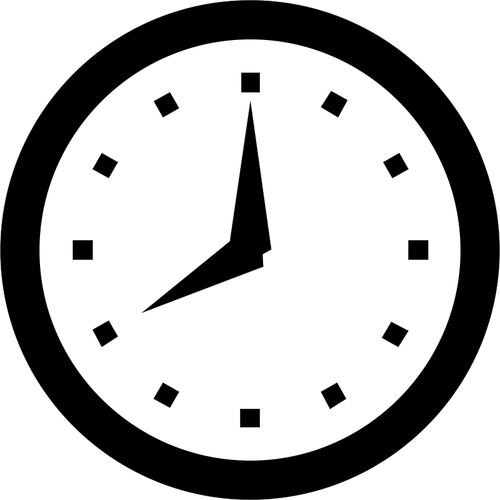
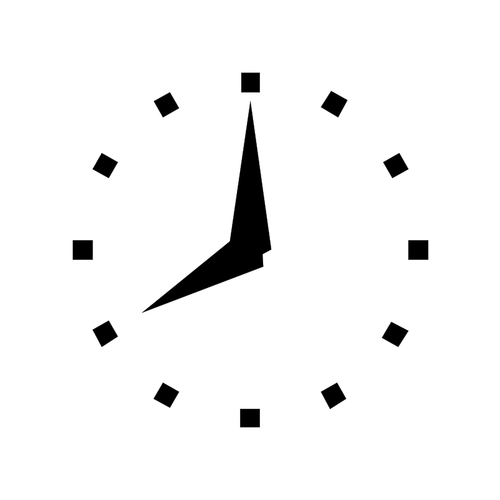
Added QR code scanning or native browser for authenticating tokens

Changed region(s): [[0.0, 0.0, 1.0, 1.0]]

diff --git a/Smart Display.py b/Smart Display.py
@@ -4,7 +4,9 @@ import requests
 import dotenv
 import datetime
 import tkinter as tk
-from auth_server import run_server_with_token_acquisition
+import qrcode
+import threading
+from auth_server import wait_for_token, get_auth_url, native_capture
 from PIL import Image, ImageTk
 
 os.chdir(os.path.dirname(os.path.abspath(__file__)))
@@ -131,7 +133,7 @@ def fit_image_to_widget(image_path, widget_width, widget_height):
         scale_factor = min(width_scale, height_scale)
         
         # Resize the image using the calculated scale factor
-        resized_image = image.resize((int(image_width * scale_factor), int(image_height * scale_factor)), Image.BILINEAR)
+        resized_image = image.resize((int(image_width * scale_factor), int(image_height * scale_factor)), Image.BICUBIC)
         
         # Convert the resized image to a Tkinter PhotoImage
         photo_image = ImageTk.PhotoImage(resized_image)
@@ -242,6 +244,27 @@ def refresh_weather():
         print("An error occured with update weather page: ", e)
     screen_refresh_process = root.after(1000*1, refresh_weather)
 
+def switch_to_settings():
+    global screen_refresh_process, current_screen, carousel_update_process
+    current_screen = "Settings"
+    root.after_cancel(carousel_update_process) if carousel_update_process else None
+    root.after_cancel(screen_refresh_process) if screen_refresh_process else None
+    clear_page_transition()
+    root.configure(bg="#505050")
+    settings_button.configure(bg="#505050")
+    clock_button.configure(bg="#505050")
+    instagram_button.configure(bg="#505050")
+    weather_button.configure(bg="#505050")
+    settings_logo.place(x=10, y=(display_height-250)/2, width=250, height=250)
+    settings_label.place(x=260, y=10, width=1000, height=100)
+    token_days_remaining = (datetime.datetime.strptime(os.getenv('LONG_ACCESS_TOKEN_EXPIRY'), '%Y-%m-%d %H:%M:%S.%f') - datetime.datetime.now()).days
+    if token_days_remaining >= 0:
+        token_label.configure(text="Token Has\n"+str(token_days_remaining)+" Days Remaining")
+    else:
+        token_label.configure(text="Token Has\n Expired", bg="black")
+    token_label.place(x=300, y=110, width=300, height=100)
+    refresh_token_button.place(x=350, y=210, width=200, height=50)
+
 def start_carousel():
     global current_screen
     try:
@@ -270,12 +293,49 @@ def clear_page_transition():
     clock_label.place_forget()
     weather_label.place_forget()
     instagram_label.place_forget()
+    token_label.place_forget()
+    refresh_token_button.place_forget()
+    qrcode_image_label.place_forget()
+    root.configure(bg="black")
+    settings_button.configure(bg="black")
+    clock_button.configure(bg="black")
+    instagram_button.configure(bg="black")
+    weather_button.configure(bg="black")
+    refresh_token_button.configure(text="Refresh Token", command=refresh_token)
 
-if datetime.datetime.strptime(os.getenv('LONG_ACCESS_TOKEN_EXPIRY'), '%Y-%m-%d %H:%M:%S.%f') < datetime.datetime.now():
-    try:
-        run_server_with_token_acquisition()
-    except:
-        pass
+def check_thread_status(thread):
+    if thread.is_alive():
+        print("Waiting for Token")
+        root.after(1000, check_thread_status, thread)
+    else:
+        thread.join()
+        switch_to_clock()
+
+def refresh_token():
+    auth_url = get_auth_url()
+    qrcode_image = create_qrcode(auth_url)
+    refresh_token_button.configure(command=lambda: native_capture(auth_url), text="Open Browser")
+    qrcode_image_label.configure(image=qrcode_image)
+    qrcode_image_label.image = qrcode_image
+    qrcode_image_label.place(x=600, y=85, width=250, height=250)
+
+    token_thread = threading.Thread(target=wait_for_token)
+    token_thread.start()
+
+    root.after(1000, check_thread_status, token_thread)
+    
+def create_qrcode(auth_url):
+    qr = qrcode.QRCode(
+        version=1,
+        error_correction=qrcode.constants.ERROR_CORRECT_L,
+        box_size=3.5,
+        border=1,
+    )
+    qr.add_data(auth_url)
+    qr.make(fit=True)
+    pil_image = qr.make_image(fill_color="black", back_color="white")
+    photo_image = ImageTk.PhotoImage(pil_image)
+    return photo_image
 
 root = tk.Tk()
 
@@ -288,6 +348,8 @@ root.title("Smart Display")
 root.attributes('-fullscreen', False if os.getenv('FULLSCREEN') == "false" else True)
 root.configure(bg="black", cursor="none")
 
+cog_image_large = fit_image_to_widget(os.path.join("images","Cog.png"),250,250)
+cog_image_small = fit_image_to_widget(os.path.join("images","Cog.png"),50,50)
 clock_image_large = fit_image_to_widget(os.path.join("images","Clock.png"),250,250)
 clock_image_small = fit_image_to_widget(os.path.join("images","Clock.png"),50,50)
 weather_image_large = fit_image_to_widget(os.path.join("images","Weather.png"),250,250)
@@ -295,9 +357,14 @@ weather_image_small = fit_image_to_widget(os.path.join("images","Weather.png"),5
 camera_image_large = fit_image_to_widget(os.path.join("images","Camera.png"),250,250)
 camera_image_small = fit_image_to_widget(os.path.join("images","Camera.png"),50,50)
 
+settings_logo = tk.Label(root, bg="#505050", fg="white", image=cog_image_large)
 clock_logo = tk.Label(root, bg="black", fg="white", image=clock_image_large)
 weather_logo = tk.Label(root, bg="black", fg="white", image=weather_image_large)
 camera_logo = tk.Label(root, bg="black", fg="white", image=camera_image_large)
+qrcode_image_label = tk.Label(root, bg="#505050", fg="#505050")
+
+settings_label = tk.Label(root, bg="#505050", fg="white", font=(text_font, 50), anchor="center", text="Settings")
+token_label = tk.Label(root, bg="#505050", fg="white", font=(text_font, 20), anchor="center", text="Token Has\nX Days Remaining")
 clock_label = tk.Label(root, bg="black", fg="white", font=(text_font, 50), anchor="center", text="Time")
 weather_label = tk.Label(root, bg="black", fg="white", font=(text_font, 50), anchor="center", text="Weather")
 instagram_label = tk.Label(root, bg="black", fg="white", font=(text_font, 50), anchor="center", text="Followers")
@@ -311,13 +378,26 @@ weather_future_label = tk.Label(root, bg="black", fg="white", font=(text_font, 3
 weather_future_temp = tk.Label(root, bg="black", fg="white", font=(text_font, 70), anchor="center")
 weather_future_conditions = tk.Label(root, bg="black", fg="white", font=(text_font, 25), anchor="center", wraplength=480)
 
-clock_button = tk.Button(root, image=clock_image_small, bg="black", fg="black", width=50, height=50, command=switch_to_clock, bd=0, highlightthickness=0)
-instagram_button = tk.Button(root, image=camera_image_small, bg="black", fg="black", width=50, height=50, command=switch_to_instagram, bd=0, highlightthickness=0)
-weather_button = tk.Button(root, image=weather_image_small, bg="black", fg="black", width=50, height=50, command=switch_to_weather, bd=0, highlightthickness=0)
+vertical_margin_right = 10
+button_size = 50
+vertical_margin_top = 15
+vertical_margin_bottom = 15
 
-clock_button.place(x=display_width-50-10,y=30,width=50,height=50)
-instagram_button.place(x=display_width-50-10,y=(display_height-50)/2,width=50,height=50)
-weather_button.place(x=display_width-50-10,y=display_height-50-30,width=50,height=50)
+total_button_height = button_size * 4
+total_vertical_spacing = vertical_margin_top + vertical_margin_bottom
+available_vertical_space = display_height - total_button_height - total_vertical_spacing
+vertical_spacing = available_vertical_space / (4 - 1)
+
+refresh_token_button = tk.Button(root, text="Refresh Token", bg="#505050", fg="white",activebackground="grey", activeforeground="white", font=(text_font, 20), command=refresh_token, bd=1, highlightthickness=1)
+settings_button = tk.Button(root, image=cog_image_small, bg="black", fg="black", activebackground="grey", width=button_size, height=button_size, command=switch_to_settings, bd=0, highlightthickness=0)
+clock_button = tk.Button(root, image=clock_image_small, bg="black", fg="black", activebackground="grey", width=button_size, height=button_size, command=switch_to_clock, bd=0, highlightthickness=0)
+instagram_button = tk.Button(root, image=camera_image_small, bg="black", fg="black", activebackground="grey", width=button_size, height=button_size, command=switch_to_instagram, bd=0, highlightthickness=0)
+weather_button = tk.Button(root, image=weather_image_small, bg="black", fg="black", activebackground="grey", width=button_size, height=button_size, command=switch_to_weather, bd=0, highlightthickness=0)
+
+settings_button.place(x=display_width-button_size-vertical_margin_right,y=(button_size + vertical_spacing) * 0 + vertical_margin_top,width=button_size,height=button_size)
+clock_button.place(x=display_width-button_size-vertical_margin_right,y=(button_size + vertical_spacing) * 1 + vertical_margin_top,width=button_size,height=button_size)
+instagram_button.place(x=display_width-button_size-vertical_margin_right,y=(button_size + vertical_spacing) * 2 + vertical_margin_top,width=button_size,height=button_size)
+weather_button.place(x=display_width-button_size-vertical_margin_right,y=(button_size + vertical_spacing) * 3 + vertical_margin_top,width=button_size,height=button_size)
 
 page_transition_time, screen_refresh_process, carousel_update_process, current_screen = initialize_environment()
 

diff --git a/auth_server.py b/auth_server.py
@@ -15,6 +15,7 @@ dotenv.load_dotenv()
 app = Flask(__name__)
 
 token_acquired = threading.Event()
+token_thread = None
 
 @app.route('/')
 def index():
@@ -30,7 +31,7 @@ def callback():
     else:
         return 'Error: Code not received'
 
-def get_access_code():
+def get_auth_url():
     auth_url = 'https://www.facebook.com/v19.0/dialog/oauth'
     params = {
         'client_id': os.getenv('CLIENT_ID'),
@@ -69,22 +70,26 @@ def run_server():
     server_thread.start()
     return server, server_thread
 
-def acquire_token():
-    webbrowser.open(get_access_code(), new=1, autoraise=True)
-    token_acquired.wait()
+def open_webbrowser(auth_url):
+    webbrowser.open(auth_url, new=1, autoraise=True)
 
-def run_server_with_token_acquisition():
-    # Start token acquisition thread
-    token_thread = threading.Thread(target=acquire_token)
-    token_thread.start()
-
+def wait_for_token():
+    global token_thread
     # Start server and server thread
     server, server_thread = run_server()
+    token_acquired.wait()
 
     # Wait for token acquisition thread to complete
-    token_thread.join()
+    token_thread.join() if token_thread else None
     server.shutdown()
     server_thread.join()
 
+def native_capture(auth_url):
+    global token_thread
+    token_thread = threading.Thread(target=open_webbrowser, args=(auth_url,))
+    token_thread.start()
+
 if __name__ == "__main__":
-    run_server_with_token_acquisition()
+    auth_url = get_auth_url()
+    native_capture(auth_url)
+    wait_for_token()
